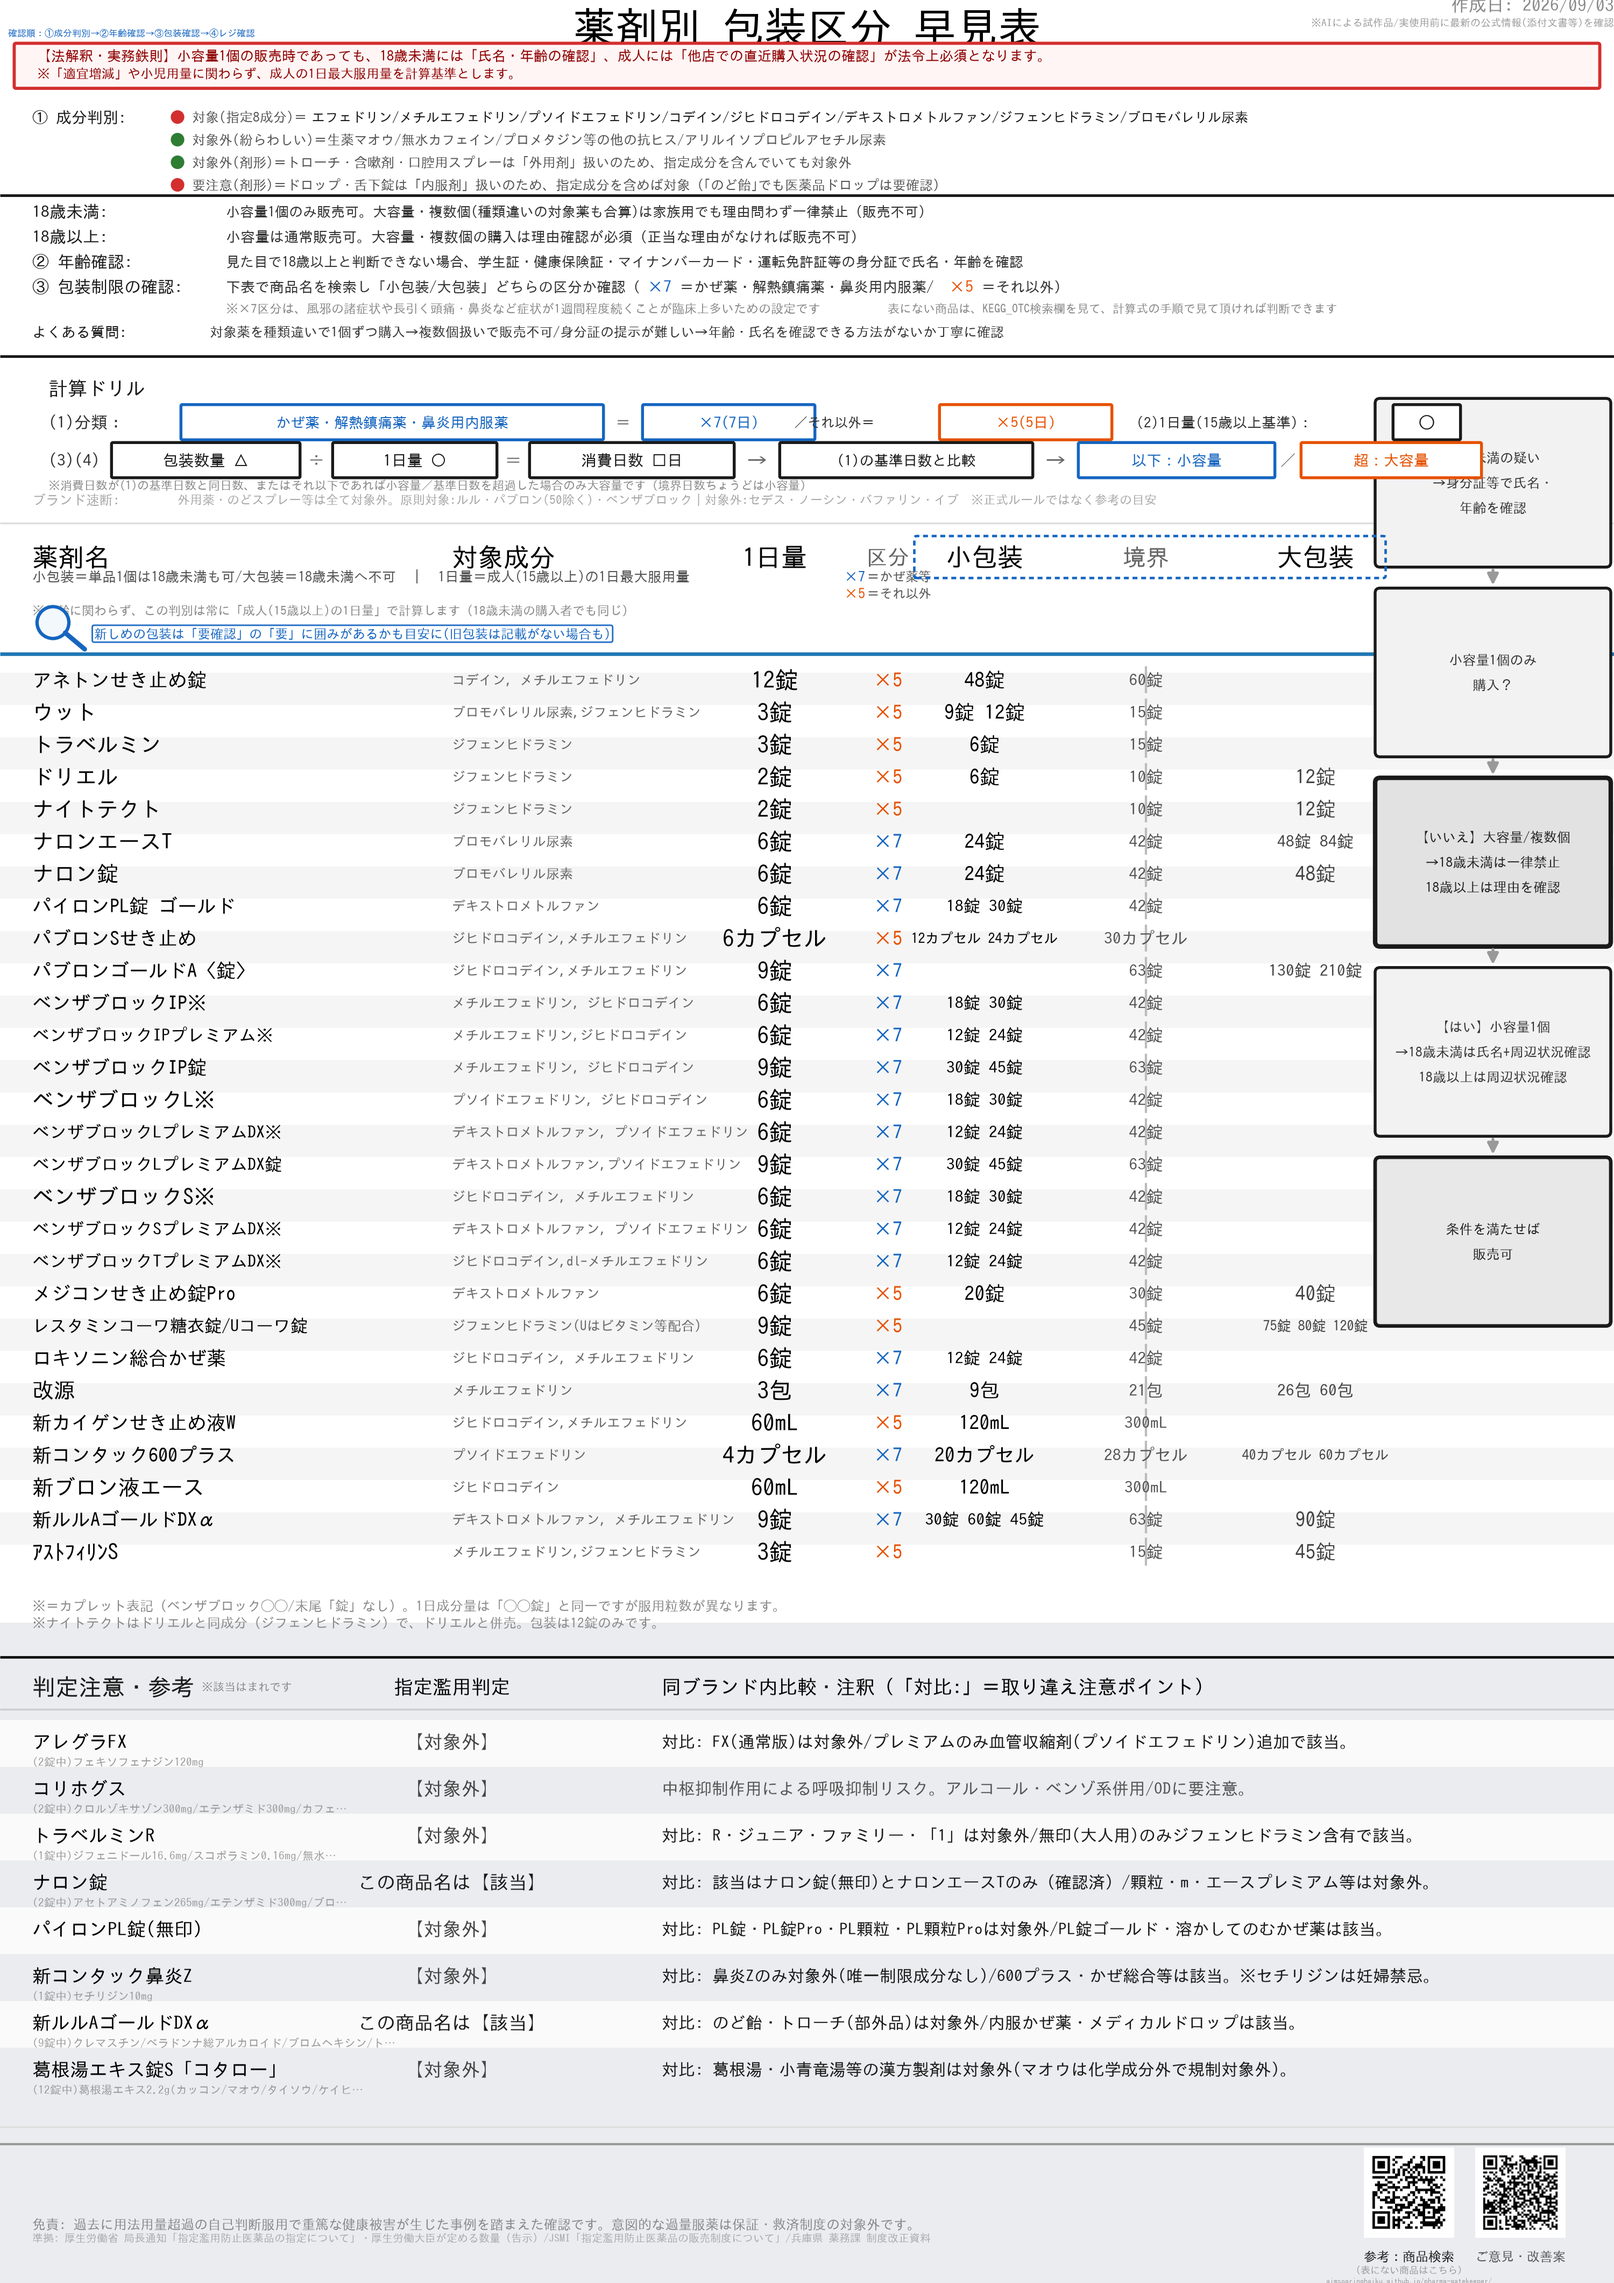
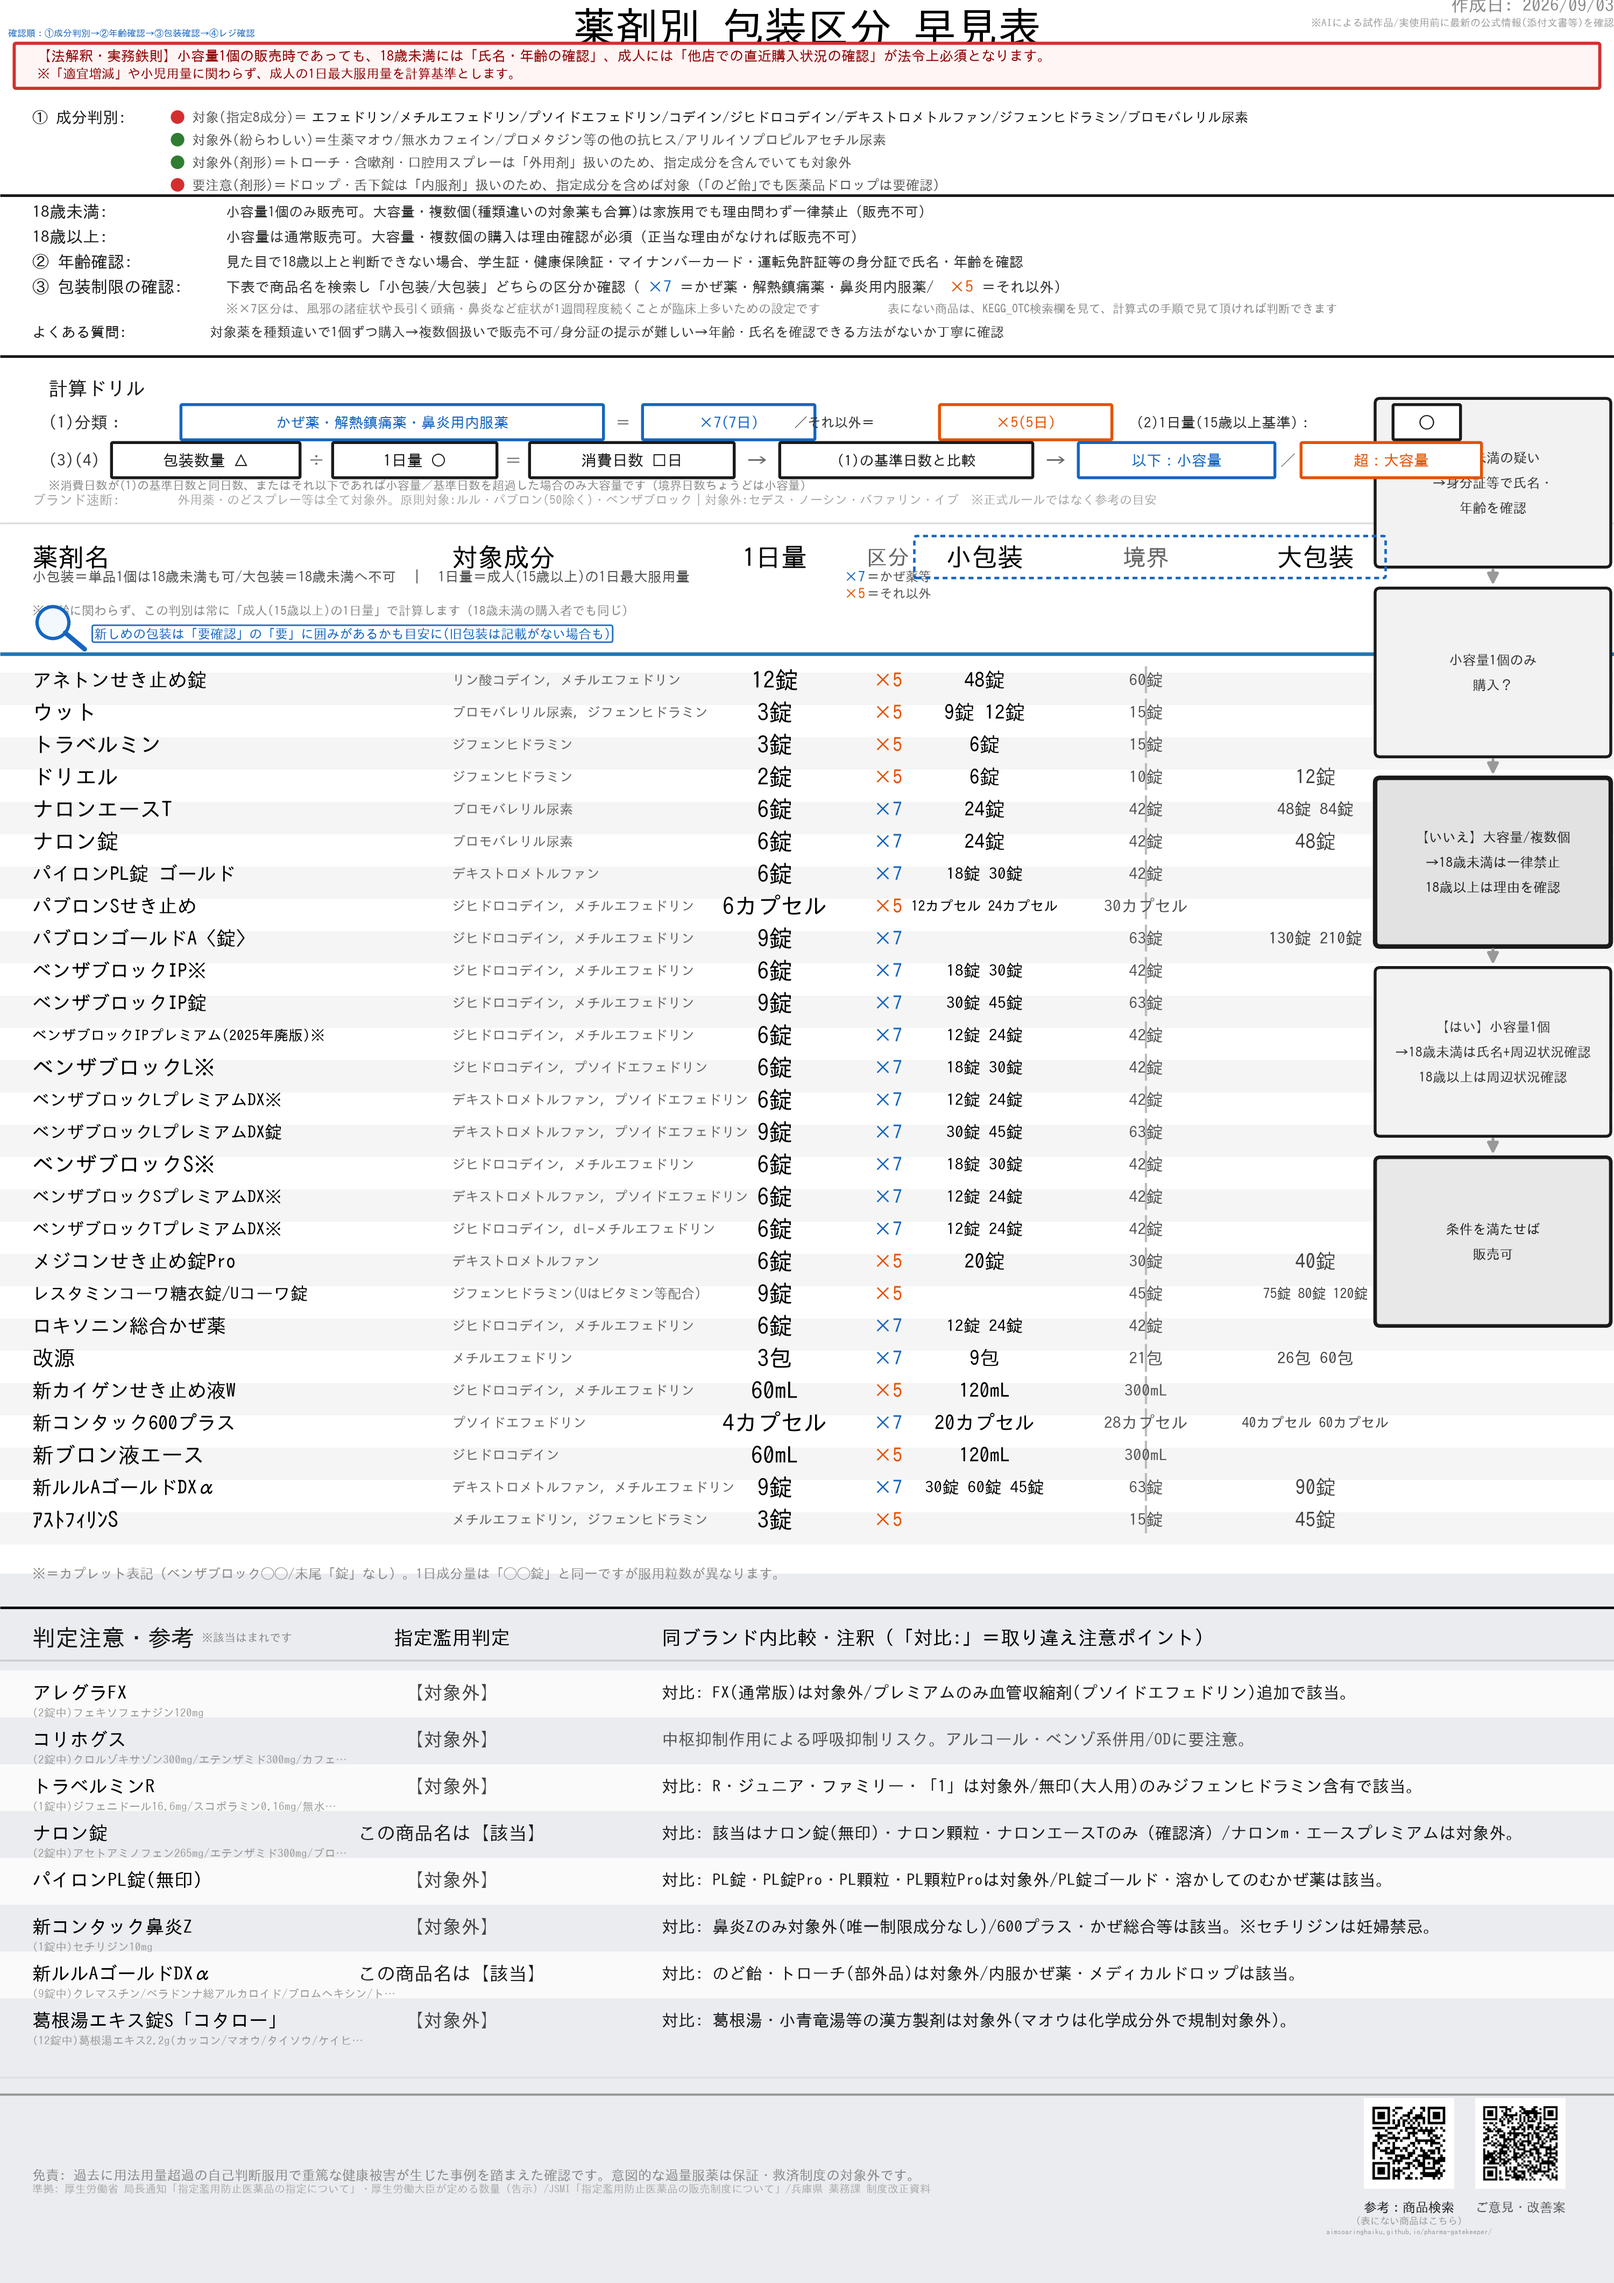
1枚目を再修正: ナロン顆粒の該当訂正、成分列のジヒドロコデイン最左ルール、ナイトテクト削除、他
- 「判定注意・参考」のナロン錠の対比を再訂正：ナロン顆粒もブロモバレリル尿素含有で該当（前回の「対象外」表記は誤りだったため訂正）
- 対象成分列に、ジヒドロコデインを含む場合は常に一番左に表示するルールを追加（reorder_ingredients）
- ナイトテクトの行をテーブルから削除（package_verification.csvからも該当行を削除）
- アネトンせき止め錠の成分表記を「コデイン」→「リン酸コデイン」に訂正
- ベンザブロックIPプレミアムに「(2025年廃版)」を明記し、表示順をベンザブロックIP錠の直後に変更

Claude-Session: https://claude.ai/code/session_01HtDFe8WnY993KR3Dojx73s

diff --git a/vpc_v13_page1.py b/vpc_v13_page1.py
@@ -38,6 +38,13 @@ def extract_amount_unit(package_str):
     return amount, unit
 
 
+def reorder_ingredients(ingr_str):
+    """対象成分の列は、依存性の観点で最も注意すべきジヒドロコデインを常に一番左に表示する。"""
+    tokens = [t.strip() for t in ingr_str.split(",") if t.strip()]
+    tokens.sort(key=lambda t: 0 if "ジヒドロコデイン" in t else 1)
+    return ", ".join(tokens)
+
+
 def shorten_note(text, max_len=60):
     text = str(text).replace("\\n", " ").replace("\n", " ")
     text = re.sub(r"\s+", " ", text).strip()
@@ -139,6 +146,14 @@ mart = pd.DataFrame(processed)
 GROUP_ORDER_OVERRIDE = {
     "改源": ("改源", 0),
     "新カイゲンせき止め液W": ("改源", 1),
+    "ベンザブロックIP": ("ベンザブロックIP", 0),
+    "ベンザブロックIP錠": ("ベンザブロックIP", 1),
+    "ベンザブロックIPプレミアム": ("ベンザブロックIP", 2),
+}
+
+# 表示名だけを差し替える（CAPLET_PRODUCTS等のキーはCSV上の商品名のまま保つ）
+DISPLAY_NAME_OVERRIDE = {
+    "ベンザブロックIPプレミアム": "ベンザブロックIPプレミアム(2025年廃版)",
 }
 
 
@@ -187,7 +202,7 @@ CUSTOM_NOTES = {
     "アレグラFX": "対比: FX(通常版)は対象外/プレミアムのみ血管収縮剤(プソイドエフェドリン)追加で該当。",
     "コリホグス": "中枢抑制作用による呼吸抑制リスク。アルコール・ベンゾ系併用/ODに要注意。",
     "トラベルミンR": "対比: R・ジュニア・ファミリー・「1」は対象外/無印(大人用)のみジフェンヒドラミン含有で該当。",
-    "ナロン錠": "対比: 該当はナロン錠(無印)とナロンエースTのみ（確認済）/顆粒・m・エースプレミアム等は対象外。",
+    "ナロン錠": "対比: 該当はナロン錠(無印)・ナロン顆粒・ナロンエースTのみ（確認済）/ナロンm・エースプレミアムは対象外。",
     "新コンタック鼻炎Z": "対比: 鼻炎Zのみ対象外(唯一制限成分なし)/600プラス・かぜ総合等は該当。※セチリジンは妊婦禁忌。",
     "新ルルAゴールドDXα": "対比: のど飴・トローチ(部外品)は対象外/内服かぜ薬・メディカルドロップは該当。",
     "葛根湯エキス錠S「コタロー」": "対比: 葛根湯・小青竜湯等の漢方製剤は対象外(マオウは化学成分外で規制対象外)。",
@@ -468,13 +483,14 @@ for i, row in mart.iterrows():
     if i % 2 == 0:
         ax.add_patch(patches.Rectangle((0, current_y - row_height * 0.785), LOGICAL_W, row_height, facecolor="#f5f5f5", edgecolor="none", zorder=0))
 
-    name_len = len(row["product"])
-    name_fontsize = 9.6 if name_len <= 8 else (8.7 if name_len <= 12 else 7.8)
-    name_text = row["product"] + ("※" if row["is_caplet"] else "")
+    display_name = DISPLAY_NAME_OVERRIDE.get(row["product"], row["product"])
+    name_len = len(display_name)
+    name_fontsize = 9.6 if name_len <= 8 else (8.7 if name_len <= 12 else (7.8 if name_len <= 18 else 6.6))
+    name_text = display_name + ("※" if row["is_caplet"] else "")
     ax.text(COL_NAME_X, current_y, name_text, fontsize=name_fontsize, fontweight="bold", ha="left", va="center")
 
     if row["ingredients"]:
-        clean_ingr = re.sub(r'(塩酸塩|リン酸塩|硫酸塩|臭化水素酸塩|マレイン酸塩|酒石酸塩|フマル酸塩)', '', row["ingredients"])
+        clean_ingr = re.sub(r'(塩酸塩|リン酸塩|硫酸塩|臭化水素酸塩|マレイン酸塩|酒石酸塩|フマル酸塩)', '', reorder_ingredients(row["ingredients"]))
         if len(clean_ingr) > 26:
             clean_ingr = clean_ingr[:26] + "…"
         ax.text(COL_INGR_X, current_y, clean_ingr, fontsize=6.0, ha="left", va="center", color="#666666")
@@ -507,10 +523,6 @@ for i, row in mart.iterrows():
 current_y -= 1.35
 ax.text(COL_NAME_X, current_y,
         "※＝カプレット表記（ベンザブロック◯◯/末尾「錠」なし）。1日成分量は「◯◯錠」と同一ですが服用粒数が異なります。",
-        fontsize=6.1, ha="left", va="center", color="#888888")
-current_y -= 1.05
-ax.text(COL_NAME_X, current_y,
-        "※ナイトテクトはドリエルと同成分（ジフェンヒドラミン）で、ドリエルと併売。包装は12錠のみです。",
         fontsize=6.1, ha="left", va="center", color="#888888")
 
 current_y -= 0.55
